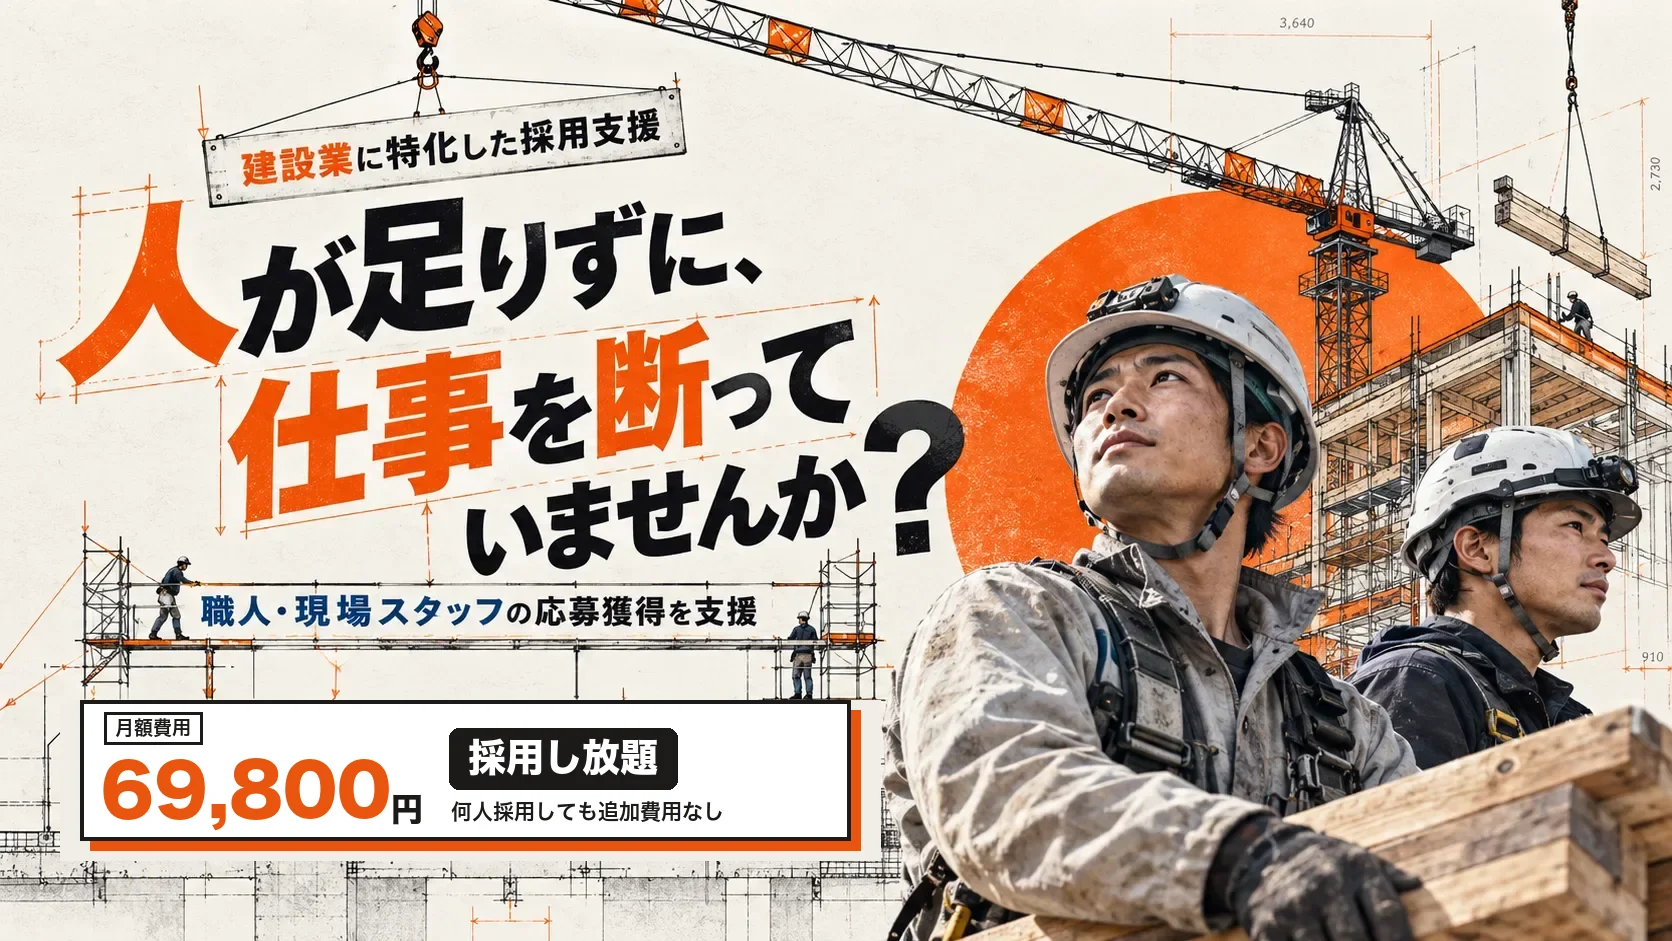
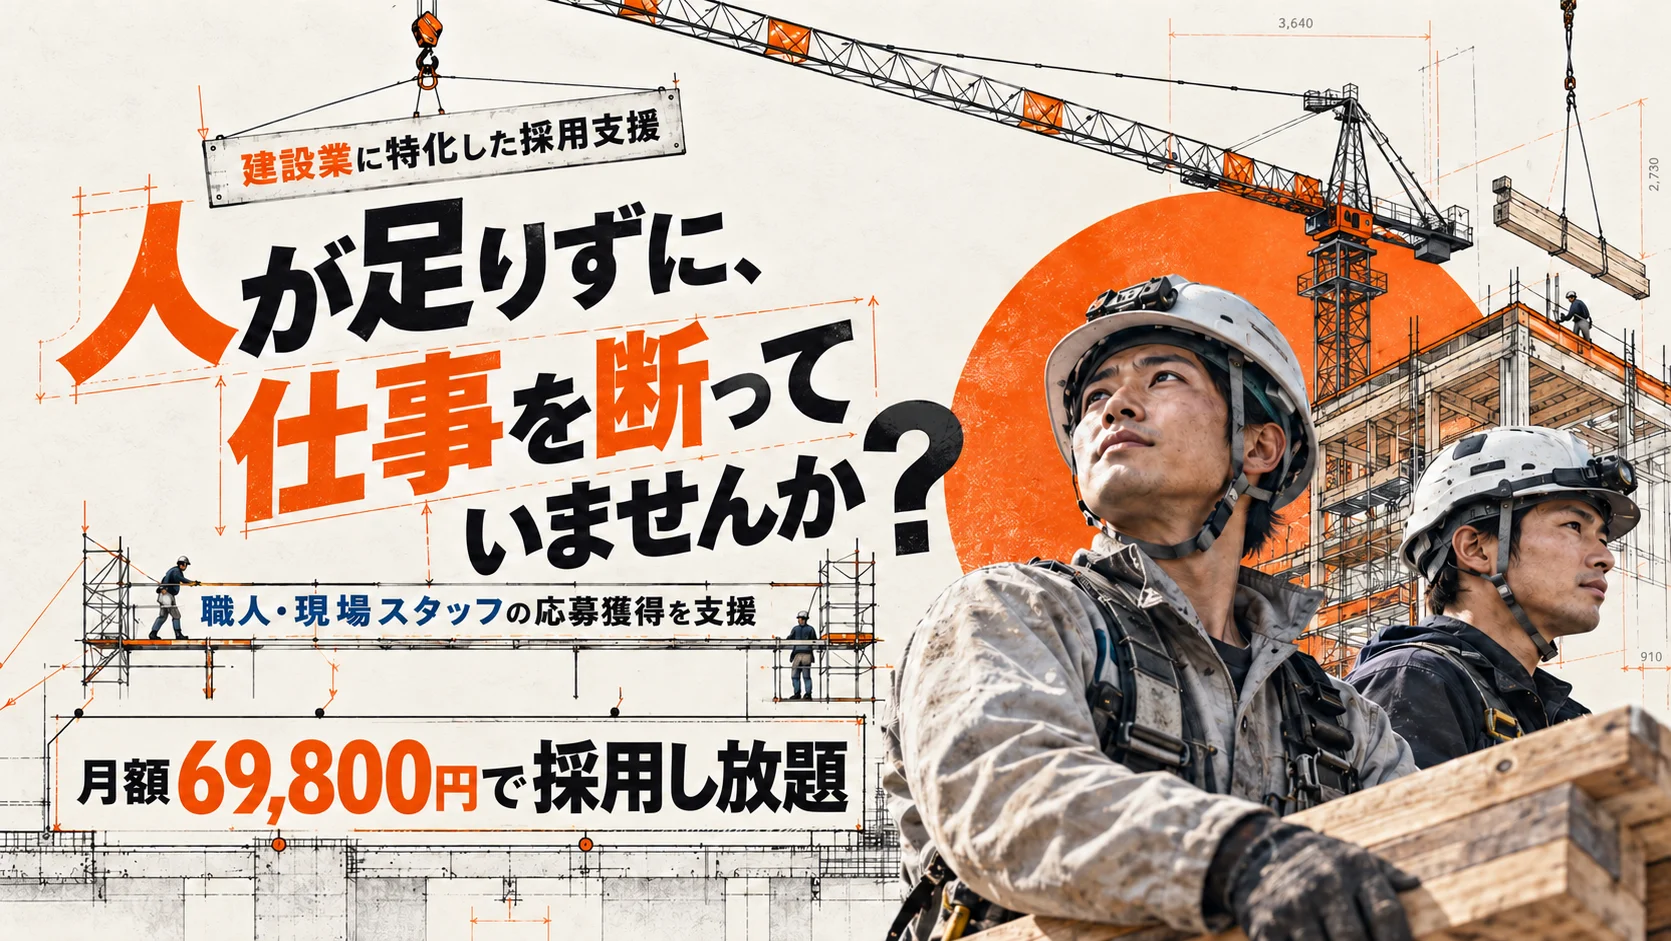
職人採用エージェントLP：追従CTAを削除しチャットのみに、運営アイコンと入力中表示を追加、FV画像を差し替え

diff --git a/components/shokunin-agent/Chrome.tsx b/components/shokunin-agent/Chrome.tsx
@@ -1,9 +1,9 @@
 "use client";
 
 import { useEffect, useState } from "react";
-import { ArrowRight, HardHat, Menu, MessageCircle, X } from "lucide-react";
+import { HardHat, Menu, MessageCircle, X } from "lucide-react";
 import { openChat } from "./ChatConsult";
-import { CTA_HREF, CTA_MAIN, NAV, SERVICE_NAME } from "./config";
+import { CTA_HREF, NAV, SERVICE_NAME } from "./config";
 
 /** ヘッダー。スマホではハンバーガーメニューに畳む */
 export function Header() {
@@ -56,36 +56,6 @@ export function Header() {
         </nav>
       )}
     </header>
-  );
-}
-
-/**
- * スマホ下部の固定CTA（PCでは非表示）。
- * FVのCTA・相談フォーム・フッターが見えている間は隠し、ボタンの二重表示や入力欄・フッターへの重なりを防ぐ。
- */
-export function StickyCta() {
-  const [hidden, setHidden] = useState(true);
-
-  useEffect(() => {
-    const targets = [".sa-hero__cta", "#contact", ".sr-footer"]
-      .map((s) => document.querySelector(s))
-      .filter((el): el is Element => el !== null);
-    const seen = new Map<Element, boolean>();
-    const io = new IntersectionObserver((entries) => {
-      for (const e of entries) seen.set(e.target, e.isIntersecting);
-      setHidden([...seen.values()].some(Boolean));
-    });
-    targets.forEach((t) => io.observe(t));
-    return () => io.disconnect();
-  }, []);
-
-  return (
-    <div className={`sr-sticky${hidden ? " is-hidden" : ""}`} aria-hidden={hidden}>
-      <a href={CTA_HREF} className="sr-btn sr-btn--lg sr-btn--primary sr-sticky__btn ks-btn" data-sr-cta="sticky" tabIndex={hidden ? -1 : 0}>
-        <span>{CTA_MAIN}</span>
-        <ArrowRight className="sr-btn__arrow" aria-hidden="true" strokeWidth={2.6} />
-      </a>
-    </div>
   );
 }
 

diff --git a/app/shokunin-agent/shokunin.css b/app/shokunin-agent/shokunin.css
@@ -1523,3 +1523,88 @@
 .sa-lp .ks-psum .ks-psum__main dd b {
   font-size: 44px;
 }
+
+/* 追従CTAを廃止したので、スマホでもチャットの起動ボタンは画面の右下に置く */
+.sa-chat-fab {
+  bottom: calc(16px + env(safe-area-inset-bottom));
+}
+
+@media (min-width: 768px) {
+  .sa-chat-fab {
+    bottom: 24px;
+  }
+}
+
+/* 運営側のアイコンと「入力中」の点 */
+.sa-chat__row {
+  display: flex;
+  align-items: flex-end;
+  gap: 8px;
+}
+
+.sa-chat__row.is-me {
+  justify-content: flex-end;
+}
+
+.sa-chat__row .sa-chat__msg {
+  max-width: calc(100% - 52px);
+}
+
+.sa-chat__avatar {
+  display: grid;
+  flex: none;
+  place-items: center;
+  width: 36px;
+  height: 36px;
+  border: 2px solid var(--ks-ink);
+  border-radius: 50%;
+  background: var(--ks-orange);
+  color: #fff;
+}
+
+.sa-chat__avatar svg {
+  width: 20px;
+  height: 20px;
+}
+
+.sa-chat__typing {
+  display: inline-flex;
+  gap: 5px;
+  padding: 14px 16px;
+}
+
+.sa-chat__typing span {
+  width: 8px;
+  height: 8px;
+  border-radius: 50%;
+  background: #9a958c;
+  animation: sa-typing 1s infinite ease-in-out;
+}
+
+.sa-chat__typing span:nth-child(2) {
+  animation-delay: 0.15s;
+}
+
+.sa-chat__typing span:nth-child(3) {
+  animation-delay: 0.3s;
+}
+
+@keyframes sa-typing {
+  0%,
+  60%,
+  100% {
+    opacity: 0.3;
+    transform: translateY(0);
+  }
+  30% {
+    opacity: 1;
+    transform: translateY(-4px);
+  }
+}
+
+@media (prefers-reduced-motion: reduce) {
+  .sa-chat__typing span {
+    animation: none;
+    opacity: 0.6;
+  }
+}

diff --git a/components/shokunin-agent/config.ts b/components/shokunin-agent/config.ts
@@ -64,9 +64,9 @@ export const HERO = {
   ],
   /** 建設版の採用レスキュー（/kensetsu）と同じFV画像。見出し・料金は画像に焼き込み済み */
   image: {
-    pc: { src: "/images/shokunin-agent/hero-pc.webp", w: 1672, h: 941 },
+    pc: { src: "/images/shokunin-agent/hero-pc.webp", w: 1671, h: 941 },
     sp: { src: "/images/shokunin-agent/hero-sp.webp", w: 941, h: 1672 },
-    alt: "建設業に特化した採用支援。人が足りずに、仕事を断っていませんか？職人・現場スタッフの応募獲得を支援。月額費用69,800円、何人採用しても追加費用なしの採用し放題。",
+    alt: "建設業に特化した採用支援。人が足りずに、仕事を断っていませんか？職人・現場スタッフの応募獲得を支援。月額69,800円で採用し放題。",
   },
 } as const;
 

diff --git a/app/shokunin-agent/page.tsx b/app/shokunin-agent/page.tsx
@@ -4,7 +4,7 @@ import "../saiyo-rescue/saiyo-rescue.css";
 import "../saiyo-rescue/kensetsu/kensetsu.css";
 import "./shokunin.css";
 
-import { Header, ScrollReveal, StickyCta } from "@/components/shokunin-agent/Chrome";
+import { Header, ScrollReveal } from "@/components/shokunin-agent/Chrome";
 import {
   BeforeAfter,
   Contact,
@@ -87,7 +87,6 @@ export default function ShokuninAgentPage() {
         <Contact />
       </main>
       <Footer />
-      <StickyCta />
       <ChatConsult />
       <ScrollReveal />
     </div>
